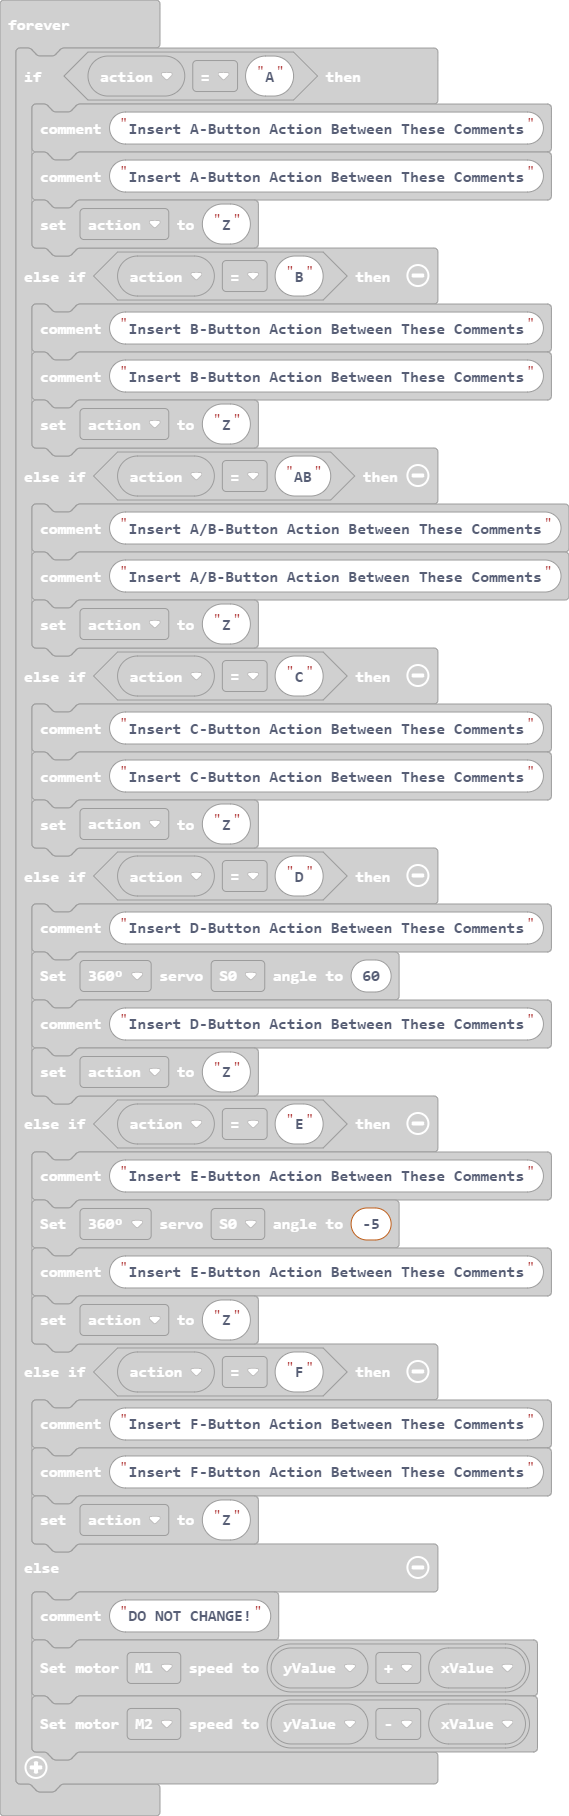
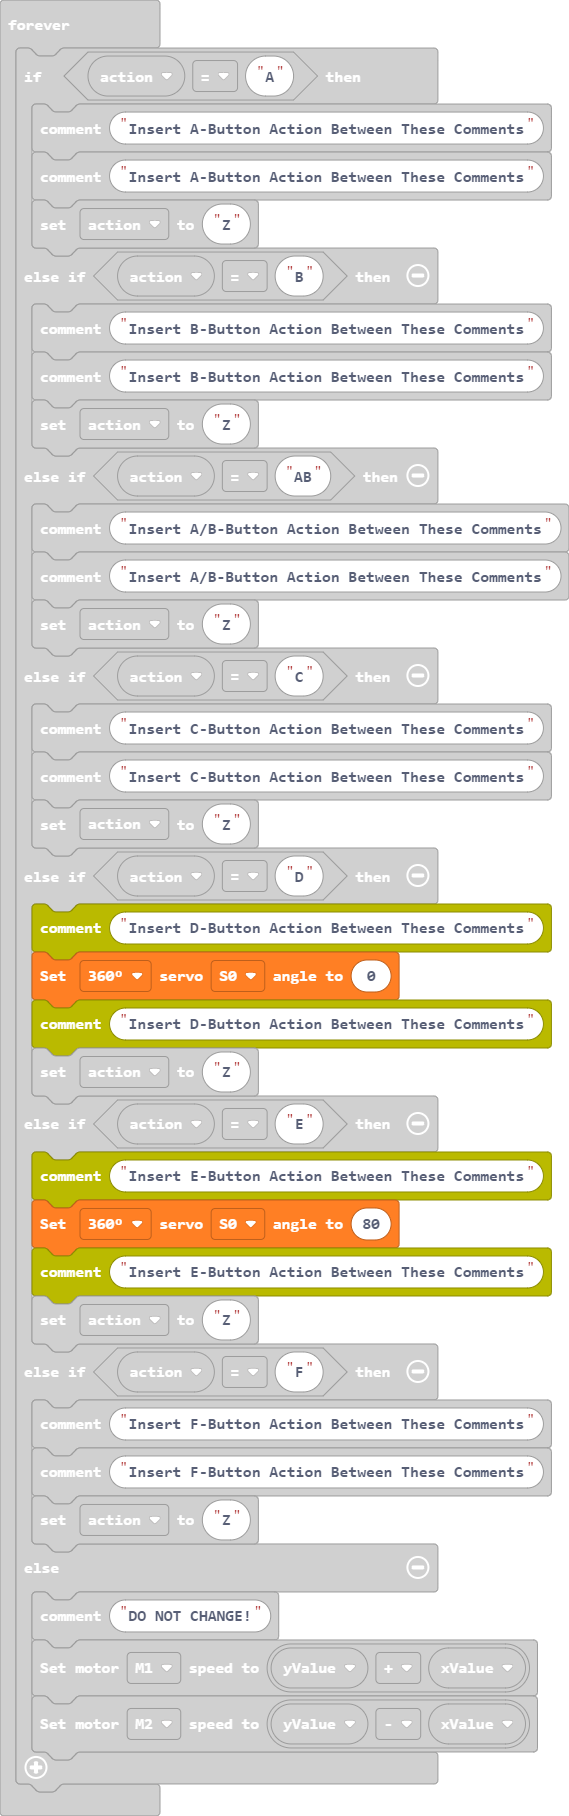
Update main.blocks, main.ts

Changed region(s): [[0.0299, 0.6167, 0.9859, 0.7401], [0.0299, 0.4934, 0.9859, 0.5859]]

diff --git a/main.ts b/main.ts
@@ -54,12 +54,12 @@ basic.forever(function () {
         action = "Z"
     } else if (action == "D") {
         comment.comment("Insert D-Button Action Between These Comments")
-        wuKong.setServoAngle(wuKong.ServoTypeList._360, wuKong.ServoList.S0, 60)
+        wuKong.setServoAngle(wuKong.ServoTypeList._360, wuKong.ServoList.S0, 0)
         comment.comment("Insert D-Button Action Between These Comments")
         action = "Z"
     } else if (action == "E") {
         comment.comment("Insert E-Button Action Between These Comments")
-        wuKong.setServoAngle(wuKong.ServoTypeList._360, wuKong.ServoList.S0, -5)
+        wuKong.setServoAngle(wuKong.ServoTypeList._360, wuKong.ServoList.S0, 80)
         comment.comment("Insert E-Button Action Between These Comments")
         action = "Z"
     } else if (action == "F") {
